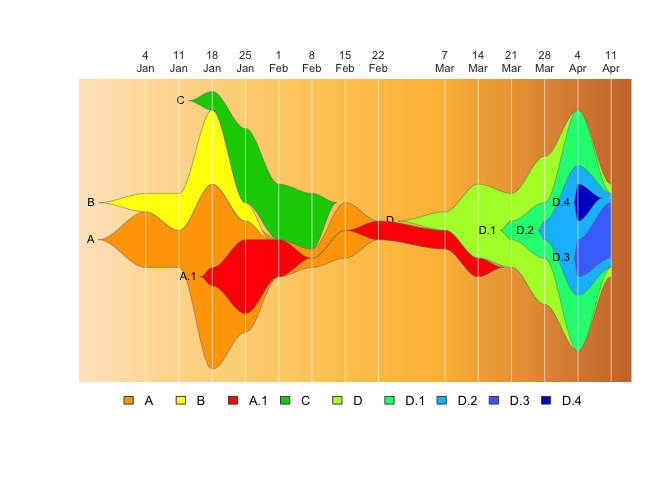
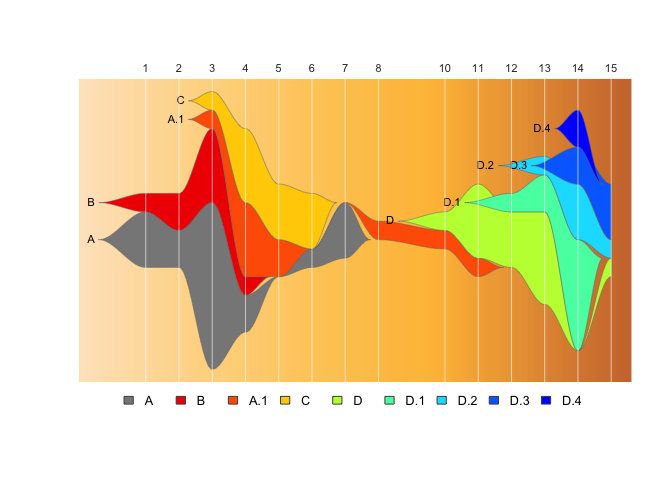
more example/README updates and some file cleanup

diff --git a/README.md b/README.md
@@ -11,10 +11,12 @@ This package provides tools to use Chris Miller’s fishplot package
 (<https://github.com/chrisamiller/fishplot>) with epidemiological
 datasets, to generate fishplot epi-curves.
 
+<img src="man/figures/README-unnamed-chunk-3-1.png" width="100%" />
+
 **Why?**
 
-A fishplot is variety of
-[streamgraph](https://www.data-to-viz.com/graph/streamgraph.html), which
+A fishplot is variety of [themeriver /
+streamgraph](https://www.data-to-viz.com/graph/streamgraph.html), which
 is designed specifically for categorical data where where individual
 categories can mutate to form subcategories. Originally designed for
 [plotting evolution of tumor cell
@@ -80,7 +82,7 @@ right format (details below), this is all you need:
 library(fishplot); library(dplyr); library(tidyr); library(lubridate); library(epifish)
 
 # read data file
-sample_df <- read.csv("inst/extdata/samples.csv", stringsAsFactors=FALSE)
+sample_df <- read.csv("https://raw.githubusercontent.com/learithe/epifish/main/inst/extdata/samples.csv", stringsAsFactors=FALSE)
 
 # run epifish 
 epifish_output <- epifish::build_epifish( sample_df )
@@ -89,7 +91,7 @@ epifish_output <- epifish::build_epifish( sample_df )
 fishplot::fishPlot( epifish_output$fish, shape="spline" )  
 ```
 
-<img src="man/figures/README-unnamed-chunk-3-1.png" width="100%" />
+<img src="man/figures/README-unnamed-chunk-5-1.png" width="100%" />
 
 **If you want to include evolutionary relationships with subclusters:**
 
@@ -98,8 +100,8 @@ fishplot::fishPlot( epifish_output$fish, shape="spline" )
 library(fishplot); library(dplyr); library(tidyr); library(lubridate); library(epifish)
 
 # read data files
-sample_df <- read.csv("inst/extdata/samples.csv", stringsAsFactors=FALSE)
-parent_df <- read.csv("inst/extdata/parents.csv", stringsAsFactors=FALSE)
+sample_df <- read.csv("https://raw.githubusercontent.com/learithe/epifish/main/inst/extdata/samples.csv", stringsAsFactors=FALSE)
+parent_df <- read.csv("https://raw.githubusercontent.com/learithe/epifish/main/inst/extdata/parents.csv", stringsAsFactors=FALSE)
 
 # run epifish 
 epifish_output <- epifish::build_epifish( sample_df, parent_df )
@@ -108,13 +110,12 @@ epifish_output <- epifish::build_epifish( sample_df, parent_df )
 fishplot::fishPlot( epifish_output$fish, shape="spline" )  
 ```
 
-<img src="man/figures/README-unnamed-chunk-5-1.png" width="100%" />
+<img src="man/figures/README-unnamed-chunk-7-1.png" width="100%" />
 
 ## Quick demo
 
-*This demo expands on the quick-start example. It runs on a set of
-example data that is present within the epifish package, the files can
-be accessed here, in the
+*This demo expands on the quick-start example. It runs on a made-up set
+of example data that can be accessed here, in the
 [`inst/extdata`](https://github.com/learithe/epifish/tree/main/inst/extdata)
 directory.* <br><br>
 
@@ -130,9 +131,9 @@ and custom colour
 scheme:
 
 ``` r
-sample_df <- read.csv("inst/extdata/samples.csv", stringsAsFactors=FALSE)
-parent_df <- read.csv("inst/extdata/parents.csv", stringsAsFactors=FALSE)
-colour_df <- read.csv("inst/extdata/colours.csv", stringsAsFactors=FALSE)
+sample_df <- read.csv("https://raw.githubusercontent.com/learithe/epifish/main/inst/extdata/samples.csv", stringsAsFactors=FALSE)
+parent_df <- read.csv("https://raw.githubusercontent.com/learithe/epifish/main/inst/extdata/parents.csv", stringsAsFactors=FALSE)
+colour_df <- read.csv("https://raw.githubusercontent.com/learithe/epifish/main/inst/extdata/colours.csv", stringsAsFactors=FALSE)
 ```
 
 Use epifish to convert this into a fishplot object, with extra assorted
@@ -163,7 +164,7 @@ fishplot::fishPlot(epifish_output$fish, pad.left=0.1, shape="spline",
 fishplot::drawLegend(epifish_output$fish, nrow=1)
 ```
 
-<img src="man/figures/README-unnamed-chunk-7-1.png" width="100%" />
+<img src="man/figures/README-unnamed-chunk-9-1.png" width="100%" />
 
 If you’re happy with the default colours, or all your clusters are
 independent, you don’t need those dataframes:
@@ -177,7 +178,7 @@ fishplot::fishPlot(epifish_output$fish, pad.left=0.1, shape="spline",
 fishplot::drawLegend(epifish_output$fish, nrow=1)
 ```
 
-<img src="man/figures/README-unnamed-chunk-8-1.png" width="100%" />
+<img src="man/figures/README-unnamed-chunk-10-1.png" width="100%" />
 
 You also can automatically collapse any clusters of a minimum size into
 a group with `min_cluster_size`:  
@@ -197,7 +198,7 @@ fishplot::fishPlot(epifish_output$fish, pad.left=0.1, shape="spline", vlines=epi
 fishplot::drawLegend(epifish_output$fish, nrow=1)
 ```
 
-<img src="man/figures/README-unnamed-chunk-9-1.png" width="100%" />
+<img src="man/figures/README-unnamed-chunk-11-1.png" width="100%" />
 
 ## Input format
 
@@ -1307,7 +1308,7 @@ fishplot::fishPlot(epifish_output$fish, pad.left=0.1, shape="spline",
 fishplot::drawLegend(epifish_output$fish, nrow=1)
 ```
 
-<img src="man/figures/README-unnamed-chunk-17-1.png" width="100%" />
+<img src="man/figures/README-unnamed-chunk-19-1.png" width="100%" />
 
 #### Use epi months as timepoints:
 
@@ -1347,7 +1348,7 @@ fishplot::fishPlot(epifish_output$fish, pad.left=0.1, shape="polygon",
 fishplot::drawLegend(epifish_output$fish, nrow=1, xpos=0.7)
 ```
 
-<img src="man/figures/README-unnamed-chunk-18-1.png" width="100%" />
+<img src="man/figures/README-unnamed-chunk-20-1.png" width="100%" />
 
 ### Manual timepoints and labels
 
@@ -1386,7 +1387,7 @@ fishplot::fishPlot(epifish_output$fish, pad.left=0.1, shape="spline",
                    vlines=vlines, vlab=vlabs)
 ```
 
-<img src="man/figures/README-unnamed-chunk-19-1.png" width="100%" />
+<img src="man/figures/README-unnamed-chunk-21-1.png" width="100%" />
 
 Or add a “zero” timepoint with the first case, which starts on the
 fourth day of the first epi week (we’ll also make the text a bit smaller
@@ -1400,20 +1401,19 @@ fishplot::fishPlot(epifish_output$fish, pad.left=0.1, shape="spline",
                    vlines=vlines, vlab=vlabs, cex.vlab=0.5)
 ```
 
-<img src="man/figures/README-unnamed-chunk-20-1.png" width="100%" />
+<img src="man/figures/README-unnamed-chunk-22-1.png" width="100%" />
 
 Or we can use completely custom timepoints and labels that describe an
 epidemiological story, with red lines:
 
 ``` r
-vlines <- c((4/7), 3, 4, 8, 14)
-vlabs <- c("first\ncases", "peak 1", "quarantine\n", "quarantine\nlifted", "peak 2")
-
+vlines <- c((4/7), 3, 8.5, 14)
+vlabs <- c("first\ncases", "wave 1", "quarantine\nbreach", "wave 2")
 fishplot::fishPlot(epifish_output$fish, pad.left=0.1, shape="spline", 
                    vlines=vlines, vlab=vlabs, col.vline="red")
 ```
 
-<img src="man/figures/README-unnamed-chunk-21-1.png" width="100%" />
+<img src="man/figures/README-unnamed-chunk-23-1.png" width="100%" />
 
 ### Control legend spacing
 
@@ -1431,7 +1431,7 @@ fishplot::fishPlot(epifish_output$fish, pad.left=0.1, shape="spline", vlines=epi
 epifish::drawLegend2(epifish_output$fish, nrow=2, widthratio=0.3, xsp=0.2)
 ```
 
-<img src="man/figures/README-unnamed-chunk-23-1.png" width="100%" />
+<img src="man/figures/README-unnamed-chunk-25-1.png" width="100%" />
 
 ## Citation:
 
